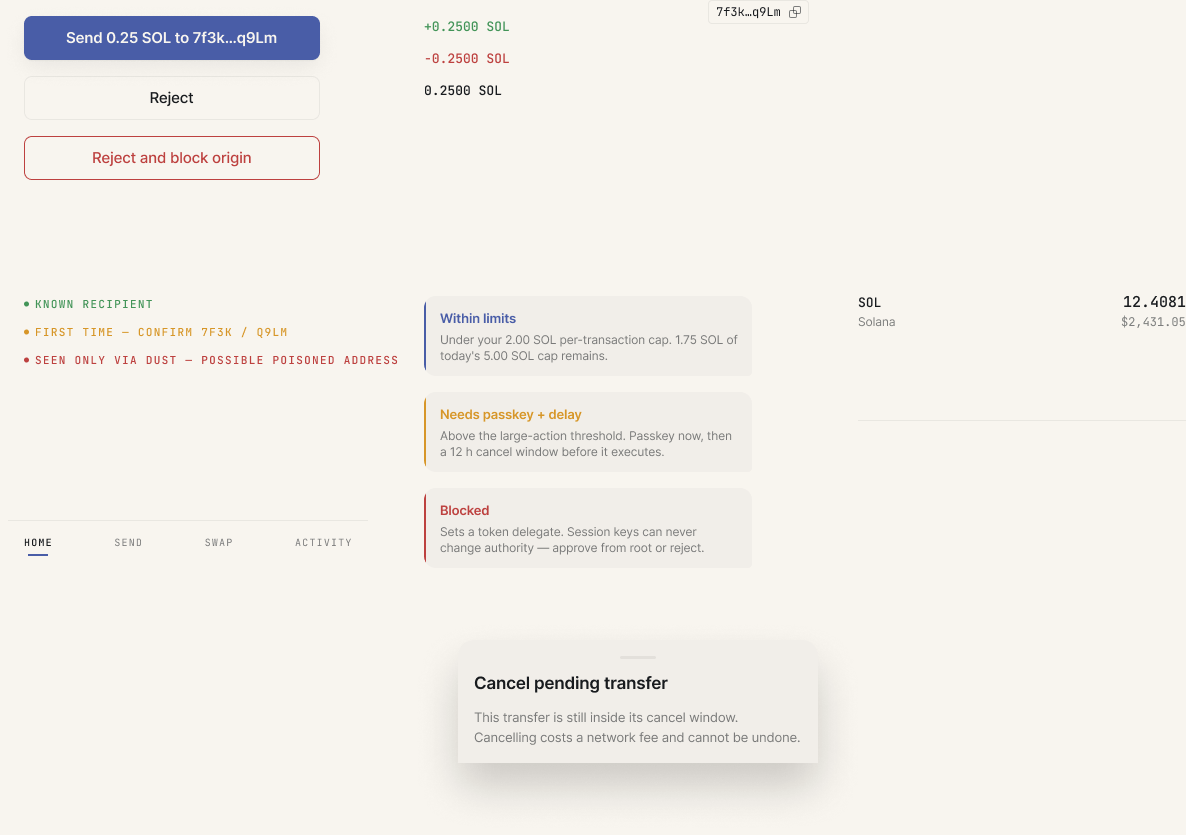
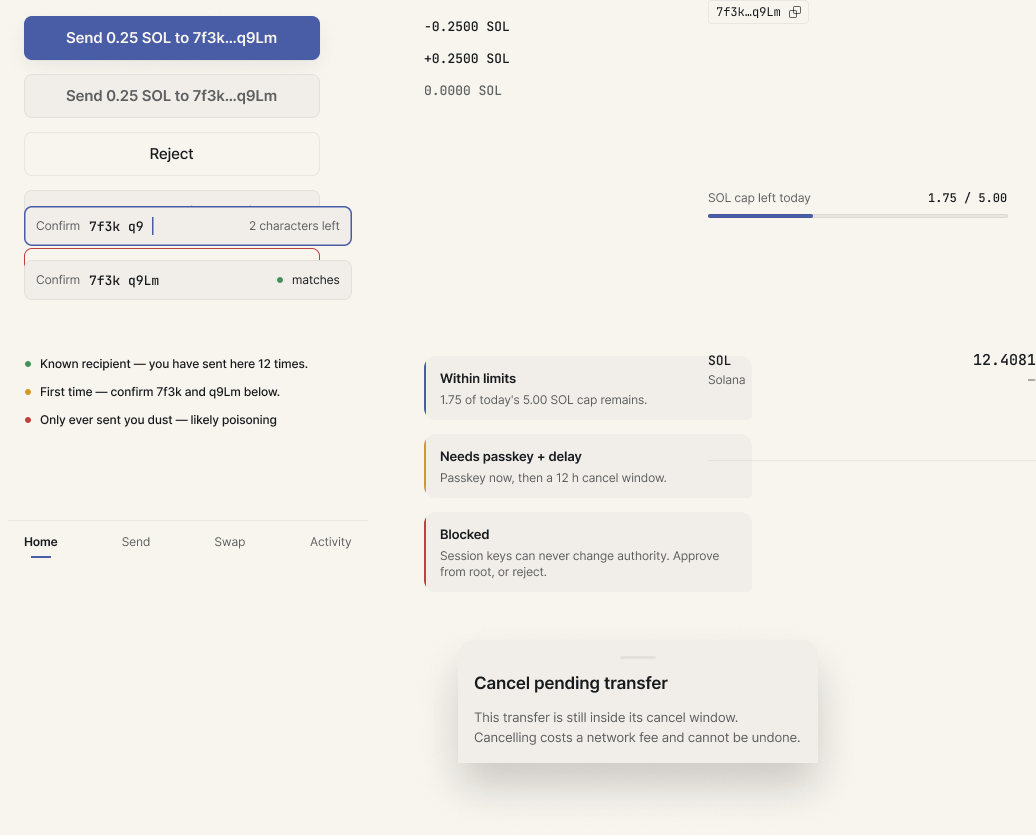
design: typed-confirmation gate, dust-only poison screen, AA-legible muted, constraint-parsing token tests

diff --git a/packages/ui-tokens/test/tokens.test.ts b/packages/ui-tokens/test/tokens.test.ts
@@ -1,12 +1,109 @@
 import { describe, it, expect } from "vitest";
 import { readFileSync } from "node:fs";
+
 const css = readFileSync(new URL("../tokens.css", import.meta.url), "utf8");
-const json = JSON.parse(readFileSync(new URL("../tokens.json", import.meta.url), "utf8"));
-describe("tokens", () => {
-  it("every json token exists in css :root", () => { for (const name of Object.keys(json)) expect(css.includes(`${name}:`)).toBe(true); });
-  it("dark block redefines only tokens defined in :root", () => {
-    const root = css.split("@media")[0]; const dark = css.split("@media")[1] ?? "";
-    for (const m of dark.matchAll(/(--w-[a-z0-9-]+):/g)) expect(root.includes(`${m[1]}:`)).toBe(true);
+const json: Record<string, string> = JSON.parse(
+  readFileSync(new URL("../tokens.json", import.meta.url), "utf8"),
+);
+
+/** Pull the declarations of one CSS block into a name -> value map. */
+function block(pattern: RegExp): Record<string, string> {
+  const m = css.match(pattern);
+  if (!m || m[1] === undefined) throw new Error(`block not found: ${pattern}`);
+  const out: Record<string, string> = {};
+  for (const decl of m[1].split(";")) {
+    const i = decl.indexOf(":");
+    if (i < 0) continue;
+    const name = decl.slice(0, i).trim();
+    if (!name.startsWith("--w-")) continue;
+    out[name] = decl.slice(i + 1).trim();
+  }
+  return out;
+}
+
+// `:root{` only — never `:root[data-theme…]` or `:root:not(…)`.
+const root = block(/:root\{([^}]*)\}/);
+const darkMedia = block(/:root:not\(\[data-theme="light"\]\)\{([^}]*)\}/);
+const darkAttr = block(/:root\[data-theme="dark"\]\{([^}]*)\}/);
+
+const REQUIRED = [
+  "--w-bg", "--w-surface", "--w-ink", "--w-muted", "--w-hairline",
+  "--w-accent", "--w-ok", "--w-warn", "--w-critical",
+  "--w-radius-card", "--w-font-ui", "--w-font-mono",
+  "--w-s-4", "--w-s-8", "--w-s-12", "--w-s-16", "--w-s-24", "--w-s-32", "--w-s-48",
+];
+
+/** oklch(L% C H[ / A]) -> {l, c, h}; throws if the value is not an oklch colour. */
+function oklch(value: string): { l: number; c: number; h: number } {
+  const m = value.match(/^oklch\(\s*([\d.]+)%\s+([\d.]+)\s+([\d.]+)/);
+  if (!m) throw new Error(`not an oklch colour: ${value}`);
+  return { l: Number(m[1]), c: Number(m[2]), h: Number(m[3]) };
+}
+
+describe("tokens.css :root", () => {
+  it("contains exactly the required token set", () => {
+    expect(Object.keys(root).sort()).toEqual([...REQUIRED].sort());
   });
-  it("exactly one accent hue family", () => expect((css.match(/--w-accent:/g) ?? []).length).toBe(3));
+});
+
+describe("tokens.json", () => {
+  it("has exactly the same names as :root", () => {
+    expect(Object.keys(json).sort()).toEqual(Object.keys(root).sort());
+  });
+
+  it("has the same values as :root", () => {
+    for (const name of REQUIRED) expect(json[name]).toBe(root[name]);
+  });
+});
+
+describe("dark blocks", () => {
+  it("only redefine names that exist in :root", () => {
+    for (const name of [...Object.keys(darkMedia), ...Object.keys(darkAttr)]) {
+      expect(Object.keys(root)).toContain(name);
+    }
+  });
+
+  it("are identical to each other", () => {
+    expect(darkAttr).toEqual(darkMedia);
+  });
+
+  it("are non-empty (a dark theme actually exists)", () => {
+    expect(Object.keys(darkMedia).length).toBeGreaterThan(0);
+  });
+});
+
+describe("palette constraints", () => {
+  it("accent is L=50% in light and L=62% in dark", () => {
+    expect(oklch(root["--w-accent"]!).l).toBe(50);
+    expect(oklch(darkMedia["--w-accent"]!).l).toBe(62);
+  });
+
+  it("accent keeps one hue family across modes", () => {
+    expect(oklch(darkMedia["--w-accent"]!).h).toBe(oklch(root["--w-accent"]!).h);
+  });
+
+  it("no non-semantic colour token carries chroma above 0.04", () => {
+    const accentHue = oklch(root["--w-accent"]!).h;
+    expect(accentHue).toBeGreaterThan(0);
+    for (const name of ["--w-bg", "--w-surface", "--w-ink", "--w-muted", "--w-hairline"]) {
+      for (const scope of [root, darkMedia]) {
+        const value = scope[name];
+        if (value === undefined) continue;
+        expect(oklch(value).c).toBeLessThanOrEqual(0.04);
+      }
+    }
+  });
+
+  it("only the accent exceeds chroma 0.10 outside the ok/warn/critical semantics", () => {
+    const loud = Object.entries(root)
+      .filter(([, v]) => /^oklch\(/.test(v))
+      .filter(([, v]) => oklch(v).c > 0.1)
+      .map(([k]) => k)
+      .sort();
+    expect(loud).toEqual(["--w-accent", "--w-critical", "--w-ok", "--w-warn"]);
+  });
+
+  it("card radius is the deliberate asymmetry", () => {
+    expect(root["--w-radius-card"]).toBe("12px 12px 4px 12px");
+  });
 });

diff --git a/packages/ui-tokens/tokens.css b/packages/ui-tokens/tokens.css
@@ -1,3 +1,3 @@
-:root{--w-bg:oklch(97% 0.008 85);--w-surface:oklch(95% 0.008 85);--w-ink:oklch(22% 0.008 250);--w-muted:oklch(22% 0.008 250 / .55);--w-hairline:oklch(0% 0 0 / .06);--w-accent:oklch(50% 0.12 270);--w-ok:oklch(60% 0.12 150);--w-warn:oklch(72% 0.14 75);--w-critical:oklch(55% 0.16 25);--w-radius-card:12px 12px 4px 12px;--w-font-ui:Inter,system-ui,sans-serif;--w-font-mono:"JetBrains Mono",ui-monospace,monospace;--w-s-4:4px;--w-s-8:8px;--w-s-12:12px;--w-s-16:16px;--w-s-24:24px;--w-s-32:32px;--w-s-48:48px}
-@media (prefers-color-scheme:dark){:root:not([data-theme="light"]){--w-bg:oklch(14% 0.02 260);--w-surface:oklch(18% 0.02 260);--w-ink:oklch(92% 0.006 90);--w-muted:oklch(92% 0.006 90 / .55);--w-hairline:oklch(100% 0 0 / .08);--w-accent:oklch(62% 0.12 270)}}
-:root[data-theme="dark"]{--w-bg:oklch(14% 0.02 260);--w-surface:oklch(18% 0.02 260);--w-ink:oklch(92% 0.006 90);--w-muted:oklch(92% 0.006 90 / .55);--w-hairline:oklch(100% 0 0 / .08);--w-accent:oklch(62% 0.12 270)}
+:root{--w-bg:oklch(97% 0.008 85);--w-surface:oklch(95% 0.008 85);--w-ink:oklch(22% 0.008 250);--w-muted:oklch(22% 0.008 250 / .68);--w-hairline:oklch(0% 0 0 / .06);--w-accent:oklch(50% 0.12 270);--w-ok:oklch(60% 0.12 150);--w-warn:oklch(72% 0.14 75);--w-critical:oklch(55% 0.16 25);--w-radius-card:12px 12px 4px 12px;--w-font-ui:Inter,system-ui,sans-serif;--w-font-mono:"JetBrains Mono",ui-monospace,monospace;--w-s-4:4px;--w-s-8:8px;--w-s-12:12px;--w-s-16:16px;--w-s-24:24px;--w-s-32:32px;--w-s-48:48px}
+@media (prefers-color-scheme:dark){:root:not([data-theme="light"]){--w-bg:oklch(14% 0.02 260);--w-surface:oklch(18% 0.02 260);--w-ink:oklch(92% 0.006 90);--w-muted:oklch(92% 0.006 90 / .68);--w-hairline:oklch(100% 0 0 / .08);--w-accent:oklch(62% 0.12 270)}}
+:root[data-theme="dark"]{--w-bg:oklch(14% 0.02 260);--w-surface:oklch(18% 0.02 260);--w-ink:oklch(92% 0.006 90);--w-muted:oklch(92% 0.006 90 / .68);--w-hairline:oklch(100% 0 0 / .08);--w-accent:oklch(62% 0.12 270)}

diff --git a/docs/design/figma.md b/docs/design/figma.md
@@ -1,11 +1,11 @@
 # Warden Wallet — design foundation (Figma)
 
 **File:** [Warden Wallet — design system](https://www.figma.com/design/GOBwNsRgT5I36H2oGjfSbi/Warden-Wallet-%E2%80%94-design-system)
-`fileKey = GOBwNsRgT5I36H2oGjfSbi` · owner `Dr. Inker` (`team::1660993652229402605`) · created 2026-08-18.
+`fileKey = GOBwNsRgT5I36H2oGjfSbi` · owner `Dr. Inker` (`team::1660993652229402605`) · created 2026-08-18, revised
+2026-08-18 (review round 1).
 
-Doctrine followed: `/opt/drinkerlabs/DESIGN.md` (ten principles, OKLCH-only colour, one accent, Inter + JetBrains Mono,
-hairlines, tabular numerals, three shadow tiers, one deliberate imperfection, sentence-case operator voice).
-Product context: `docs/superpowers/specs/2026-08-18-warden-wallet-design.md` §6 (intent view) and §9 (UI/brand).
+Doctrine followed: `/opt/drinkerlabs/DESIGN.md`. Product context: `docs/superpowers/specs/2026-08-18-warden-wallet-design.md`
+§6 (intent view) and §9 (UI/brand).
 
 Tokens are authored **here** and exported by hand to `packages/ui-tokens/`. Per repo `CLAUDE.md`: do not hand-edit
 `tokens.css` — change the Figma variable, then re-export both files together and update the table below.
@@ -16,36 +16,60 @@ Tokens are authored **here** and exported by hand to `packages/ui-tokens/`. Per 
 
 | Page | node id |
 |---|---|
-| Components | `4:3` |
-| Screens | `7:2` |
+| Components | `9:86` |
+| Screens | `10:2` |
 
 | Frame | node id | deep link |
 |---|---|---|
-| 06 — Sign request / intent (light) | `7:3` | `…/design/GOBwNsRgT5I36H2oGjfSbi?node-id=7-3` |
-| 06b — Sign request / blocked, authority change (light) | `7:42` | `…?node-id=7-42` |
-| 02 — Home (light) | `7:79` | `…?node-id=7-79` |
-| 06 — Sign request / intent · dark | `7:159` | `…?node-id=7-159` |
-| 02 — Home · dark | `7:190` | `…?node-id=7-190` |
-| 06b — Sign request / blocked · dark | `7:242` | `…?node-id=7-242` |
+| 06 — Sign request / intent | `10:3` | `…/design/GOBwNsRgT5I36H2oGjfSbi?node-id=10-3` |
+| 06a — Sign request / confirmation matched | `10:54` | `…?node-id=10-54` |
+| 06b — Sign request / blocked (authority change) | `10:106` | `…?node-id=10-106` |
+| 06c — Sign request / dust-only recipient (poisoning) | `10:145` | `…?node-id=10-145` |
+| 02 — Home | `10:190` | `…?node-id=10-190` |
+| 06 · dark | `10:271` | `…?node-id=10-271` |
+| 06b · dark | `10:307` | `…?node-id=10-307` |
+| 06c · dark | `10:340` | `…?node-id=10-340` |
+| 02 · dark | `10:374` | `…?node-id=10-374` |
 
-Popup frame size is 360 × 600 for every screen. The dark frames are clones with an explicit `color` collection mode
-override — same nodes, same variables, no duplicated colour values.
+Every frame is 360 × 600 and every frame's **content height is ≤ 600**, verified programmatically (596–600) — nothing
+is clipped. Dark frames are clones carrying an explicit `color`-collection mode override: same nodes, same variables.
 
-Screenshots in this folder: `06-sign-request.png`, `02-home.png`, `00-components.png` (component sheet).
+Screenshots in this folder: `06-sign-request.png`, `02-home.png`, `06c-dust-only.png`, `00-components.png`.
 
-## Components (page `4:3`)
+## Components (page `9:86`)
 
-| Component | node id | variants |
+| Component | node id | variants / notes |
 |---|---|---|
-| Button | `4:10` | `Variant=Primary` / `Secondary` / `Destructive` — 44 px, radius 8, ack 120 ms + emphasis easing (documented, not animated in Figma) |
-| Amount | `4:17` | `Sign=Positive` / `Negative` / `Neutral` — JetBrains Mono (inherently tabular), sign-coloured, U+2212 minus |
-| AddressChip | `4:18` | mono `first4…last4` + copy affordance |
-| TrustMark | `4:32` | `Trust=Known` / `FirstTime` / `DustOnly` — dot + mono all-caps, **not** a filled badge (doctrine §5.11) |
-| PolicyVerdict | `4:48` | `Verdict=Within` / `NeedsPasskey` / `Blocked` — 2 px semantic rail + title + reason |
-| BalanceRow | `4:49` | symbol / name / amount / fiat, hug height |
-| Divider | `4:56` | 1 px hairline |
-| NavBar | `4:57` | Home / Send / Swap / Activity, active = accent underline |
-| Sheet | `4:70` | bottom sheet, modal shadow tier |
+| Button | `9:203` | `Primary` · `PrimaryDisabled` · `Secondary` · `SecondaryDisabled` · `Destructive`. Disabled is a **different surface**, not dimmed text: `surface` fill + hairline stroke + `muted` label + no shadow. 44 px, radius 8 |
+| Amount | `9:210` | `Sign=Out` · `In` · `Muted`. Mono, tabular by construction, U+2212 minus. **No semantic colour** — see the colour rule below |
+| AddressChip | `9:211` | mono `first4…last4` + copy affordance |
+| TrustMark | `9:228` | `Known` · `FirstTime` · `DustOnly`. Semantic dot + **sentence-case Inter 12** label in `ink`. Not a filled badge |
+| PolicyVerdict | `9:244` | `Within` · `NeedsPasskey` · `Blocked`. 2 px semantic rail + `ink` title + `muted` detail |
+| ConfirmField | `9:260` | `State=Incomplete` (accent focus ring, caret, "2 characters left") · `State=Matched` (ok dot, "matches"). The typed first-4/last-4 gate required by spec §6 |
+| Meter | `9:261` | label left / value right, then a 4 px hairline-outlined track with an `accent` fill |
+| BalanceRow | `9:267` | symbol / name / amount / fiat |
+| Divider | `9:274` | 1 px hairline |
+| NavBar | `9:275` | Home / Send / Swap / Activity, sentence case, active = accent underline |
+| Sheet | `9:288` | bottom sheet, modal shadow tier |
+
+## The colour rule (added in review round 1)
+
+**Semantic hues (`ok` / `warn` / `critical`) are used for rails, dots and meter fills — never for text.**
+Two reasons, in order of weight:
+
+1. **Contrast.** Measured against `--w-surface` in light mode: `warn` = **2.19:1**, `ok` = **3.23:1**,
+   `critical` = 4.55:1. Against dark `surface`, `critical` = 3.58:1. Coloured status *text* therefore fails WCAG AA
+   (4.5:1) in the majority of the places it would appear. The rail carries the same information at full legibility.
+2. **Restraint.** Doctrine §2 uses a semantic hue "as dot, not wash". A wallet that paints every outgoing amount red
+   is a casino; a wallet that paints only *authority changes, blocked verdicts and poisoning* red is an instrument.
+
+Consequences:
+
+- Ordinary outgoing amounts (`−0.2500`) are **`ink`**; the sign is carried by the U+2212 glyph, not by hue.
+- `critical` appears in exactly three places: the authority-change rail (06b), the blocked-verdict rail (06b), and the
+  poison rail + dust dot + "Block and report" stroke (06c).
+- `warn` appears on the pending-timelock rail (02), the first-time-recipient dot (06) and the needs-passkey rail.
+- `ok` appears on the session-unlocked dot (02) and the confirmation-matched dot (06a).
 
 ## Variable collections
 
@@ -56,74 +80,109 @@ Screenshots in this folder: `06-sign-request.png`, `02-home.png`, `00-components
 | `bg` | `oklch(97% 0.008 85)` (bone) | `oklch(14% 0.02 260)` (midnight) | `--w-bg` |
 | `surface` | `oklch(95% 0.008 85)` | `oklch(18% 0.02 260)` | `--w-surface` |
 | `ink` | `oklch(22% 0.008 250)` | `oklch(92% 0.006 90)` | `--w-ink` |
-| `muted` | ink @ 55 % alpha | ink @ 55 % alpha | `--w-muted` |
+| `muted` | ink @ **68 %** alpha | ink @ **68 %** alpha | `--w-muted` |
 | `hairline` | `oklch(0% 0 0 / .06)` | `oklch(100% 0 0 / .08)` | `--w-hairline` |
 | `accent` | `oklch(50% 0.12 270)` | `oklch(62% 0.12 270)` | `--w-accent` |
 | `ok` | `oklch(60% 0.12 150)` | same | `--w-ok` |
 | `warn` | `oklch(72% 0.14 75)` | same | `--w-warn` |
 | `critical` | `oklch(55% 0.16 25)` | same | `--w-critical` |
 
-Only `accent` carries chroma > 0.10 as *the* brand accent; `ok`/`warn`/`critical` are semantic status hues that the
-spec (§9) separates from the accent, and they never appear as nav or surface chrome.
+`muted` was raised from 55 % to **68 %** alpha in review round 1. Measured contrast:
 
-Figma variables are sRGB, so the OKLCH values above were converted once and the sRGB result is what Figma stores:
+| | on `bg` | on `surface` |
+|---|---|---|
+| light (`#5F6161` / `#5D5F5F` flattened) | 5.73:1 | 5.58:1 |
+| dark (`#9E9E9E` / `#A0A1A1` flattened) | 7.45:1 | 7.26:1 |
+
+At 55 % it measured 3.78:1 / 3.72:1 in light — below AA. 68 % clears AA with margin while still reading a full step
+below `ink`.
+
+Only `accent` is a brand chroma above 0.10; `ok`/`warn`/`critical` are semantic status hues the spec (§9) separates
+from the accent, and per the rule above they never appear as chrome or as text.
+
+Figma variables are sRGB, so the OKLCH values were converted once and the sRGB result is what Figma stores:
 bg `#F8F5EF` / `#050911`, surface `#F1EEE9` / `#0C121A`, ink `#181B1E` / `#E6E4E0`, accent `#495DA7` / `#6A81CE`,
-ok `#439458`, warn `#D79628`, critical `#BD413F`. **OKLCH in `tokens.css` is the source of truth**; the hex is a
-lossy render for tooling that cannot do OKLCH.
+ok `#439458`, warn `#D79628`, critical `#BD413F`. **OKLCH in `tokens.css` is the source of truth**; the hex is a lossy
+render for tooling that cannot do OKLCH.
 
 ### `type` (`VariableCollectionId:1:12`)
 
-`font-ui` = `Inter` · `font-mono` = `JetBrains Mono`
-UI sizes 13 / 15 / 17 / 22 / 28 with line-heights 16 / 20 / 24 / 28 / 36 (all on the 4 px baseline grid).
+`font-ui` = `Inter` · `font-mono` = `JetBrains Mono`.
+UI sizes 13 / 15 / 17 / 22 / 28 with line-heights 16 / 20 / 24 / 28 / 36 (4 px baseline grid).
 Mono sizes 12 / 13 with line-heights 16 / 20. Inter is tracked at −1.1 %; mono is untracked.
-All-caps chapter marks are mono 10 px at +12 % tracking, `muted`.
+
+**Mono is reserved for amounts, addresses, hashes, tickers and timestamps.** Operational prose — fee labels, recipient
+warnings, policy detail, meter labels, nav labels — is sentence-case Inter at 12–13 px. The only all-caps mono left is
+the numbered chapter mark (`WHAT CHANGES`, `RECIPIENT`, `BALANCES`), at 11 px / +12 % tracking, per doctrine §3.6.
 
 ### `space` (`VariableCollectionId:1:29`)
 
-`s-4 · s-8 · s-12 · s-16 · s-24 · s-32 · s-48` → `--w-s-*`. Rungs above 48 are deliberately skipped for a 360 px popup.
+`s-4 · s-8 · s-12 · s-16 · s-24 · s-32 · s-48` → `--w-s-*`. Rungs above 48 are skipped for a 360 px popup.
 
 ### `radius` (`VariableCollectionId:1:37`)
 
 `card-tl` = 12 · `card-tr` = 12 · `card-br` = **4** · `card-bl` = 12 — i.e. `12px 12px 4px 12px`, **the one deliberate
-imperfection**; every card in both screens carries it, and it exports as the single `--w-radius-card` token.
-Also `pill` = 999 · `chip` = 4 · `control` = 8 (buttons, Cancel).
+imperfection**; every card in every screen carries it, and it exports as the single `--w-radius-card` token.
+Also `pill` = 999 · `chip` = 4 · `control` = 8 (buttons, ConfirmField, Cancel).
 
 ### Motion (documented here, not animated in Figma)
 
 `--ease-out: cubic-bezier(.16,1,.3,1)` · `--ease-emph: cubic-bezier(.2,0,0,1)` ·
-`--dur-ack: 120ms` (button press / focus) · `--dur-reveal: 240ms` (sheet, verdict expansion).
+`--dur-ack: 120ms` (button press, ConfirmField character echo) · `--dur-reveal: 240ms` (sheet, verdict expansion).
 
 ### Shadow tiers
 
-surface = none · raised = `0 1px 2px /5 %` + `0 8px 24px /6 %` (the popup itself, primary button) ·
-modal = `0 24px 48px /18 %` (Sheet only). Three tiers, no more.
+surface = none · raised = `0 1px 2px /5 %` + `0 8px 24px /6 %` (the popup, the enabled primary button) ·
+modal = `0 24px 48px /18 %` (Sheet only). Three tiers, no more. `PrimaryDisabled` deliberately has **no** shadow — the
+elevation itself is part of the enabled/disabled signal.
 
 ---
 
 ## Screen notes
 
-**06 — sign request / intent** is the product. Reading order top → bottom is origin → what changes → who receives it →
-what the policy will do → the button that says exactly what it does:
+### 06 — sign request / intent
 
-- **Origin header** — favicon mark, host, connection age, and the signing key, so the user knows *which* key is about to
-  sign. Hairline bottom edge, no chrome.
-- **What changes** — per-token balance diff from simulation, mono and sign-coloured, with the fiat value and, under a
-  hairline, the fee and the resulting balance. One number is the hero; everything else is 11 px muted mono.
-- **Recipient** — the full base58 address in mono plus a `TrustMark`. First-time and dust-only are the two states that
-  matter; dust-only is the poisoned-address warning and is `critical`.
-- **Policy verdict** — the on-chain answer, not a warning the user can click through: *within limits* /
-  *needs passkey + delay* / *blocked (why)*.
-- **Actions** — primary reads "Send 0.25 SOL to 7f3k…q9Lm"; secondary is "Reject". On the blocked variant the primary
-  slot is destructive ("Reject and block origin") and the only other action is "Show raw instructions" — there is no
-  path to approve a blocked action from this screen.
+Reading order is origin → what changes → who receives it → what the policy will do → the gate → the button.
 
-**02 — home** shows the account's safety state before it shows its money:
+- **Origin header** — mark, host, connection age, and the key that will sign, so the user knows *which* key is acting.
+- **What changes** — per-token diff from simulation in `ink` mono, with fiat, network fee and resulting balance under a
+  hairline. One number is the hero; everything else is 12 px.
+- **Recipient** — full base58 address in mono, plus a `TrustMark`.
+- **Policy verdict** — the on-chain answer, not a dismissible warning: within limits / needs passkey + delay / blocked.
+- **Typed confirmation (spec §6)** — a `ConfirmField` sits directly above the primary action. Until the typed value
+  matches the recipient's first four and last four characters, the primary is `PrimaryDisabled`: a flat `surface`
+  rectangle with a hairline and a `muted` label and no elevation — visibly not a button yet. `06a` (`10:54`) is the same
+  frame with `State=Matched` and `Variant=Primary`, showing the gate released.
+- **Actions** — primary reads "Send 0.25 SOL to 7f3k…q9Lm"; secondary is "Reject".
 
-- Total held is the SOL number the RPC actually returned; the fiat line is `—` with `PRICE FEED UNAVAILABLE`, and the
-  per-row fiat is `—` to match. This is the doctrine's "live state as ornament / never fake it" rule made literal — the
-  screen is designed around the failure case so it cannot lie.
-- Session card: unlocked + minutes left, then remaining caps per mint with a hairline meter.
-- Pending: the timelocked transfer with a mono countdown and an in-place Cancel — the cancel window is the product
+### 06b — blocked (authority change)
+
+Authority changes lead the screen, above the balance diff, because the balance diff is *zero* — the whole point is that
+simulation shows no loss today. Critical rail, `ink` title, blocked verdict, and no approve path at all: the actions are
+"Reject and block origin" and "Show raw instructions".
+
+### 06c — dust-only recipient (address poisoning)
+
+The poison case gets its own blocking treatment rather than a trust label alone:
+
+- A `critical`-railed banner leads: "This address only ever sent you dust", with how it entered the history and why it
+  looks like the address the user actually uses.
+- The recipient card shows the poisoned address, the `DustOnly` `TrustMark`, and the **address the user actually sends
+  to** for comparison — the single most useful thing the wallet can show here.
+- The primary action is inverted: destructive **"Block and report this address"**. The escape hatch,
+  "I understand the risk, continue", is a `SecondaryDisabled` and stays disabled until the same `ConfirmField` matches.
+  You cannot proceed through a poisoning warning by muscle memory.
+
+### 02 — home
+
+Shows the account's safety state before it shows its money.
+
+- Total held is the SOL figure the RPC actually returned; the fiat line reads `— USD unavailable — no price feed` and
+  every per-row fiat is `—`. The screen is designed around the failure case so it cannot lie (doctrine §3.7).
+- Session card: unlocked + minutes left, then per-mint remaining caps as **`Meter`** instances — label above, value
+  right-aligned, and a 4 px hairline-outlined track with an accent fill underneath. (In round 0 these were 2 px bars
+  sitting directly under their labels and read as text underlines.)
+- Pending: the timelocked transfer with a mono countdown and an in-place Cancel. The cancel window is the product
   promise, so it is on the first screen, not buried in Activity.
 
 ---
@@ -132,18 +191,21 @@ what the policy will do → the button that says exactly what it does:
 
 Screens **01** onboarding (incl. the one Tiempos-italic hero phrase §9), **03** receive, **04** send, **05** swap,
 **07** connect, **08** policy, **09** sessions & devices, **10** guardians & recovery, **11** settings/trust.
-Also missing: full-page (expanded tab) variants, empty/error/loading states beyond the `—` case, focus and hover
-states, the top-20 dApp-compat surface (§12.4), and a `Sheet` used in situ.
+Also missing: full-page (expanded tab) variants, hover/focus states, loading states beyond the `—` case, the top-20
+dApp-compat surface (§12.4), and a `Sheet` used in situ.
 
 ## Process note
 
 The Figma MCP asks that `/figma-use` be loaded before `use_figma`. That skill is **not installed** in this environment
-(the `Skill` tool returns `Unknown skill: figma-use`) and the fallback resource `skill://figma/figma-use/SKILL.md`
-could not be read (no MCP resource-reading tool is exposed to this agent). The work was done following the guidance
-embedded in the tool descriptions instead. Two gotchas cost a rebuild each and are worth recording:
+(`Skill` returns `Unknown skill: figma-use`) and the fallback resource `skill://figma/figma-use/SKILL.md` could not be
+read (no MCP resource-reading tool is exposed to this agent). The work followed the guidance embedded in the tool
+descriptions instead. Gotchas worth recording:
 
 1. `PageNode` has `backgrounds`, not `fills`.
 2. `resize()` on an auto-layout frame flips **both** sizing modes to `FIXED`. For "fixed width, hug height" you must
    re-set the modes *after* resizing — `VERTICAL` → `counterAxisSizingMode = FIXED; primaryAxisSizingMode = AUTO`;
    `HORIZONTAL` → the reverse. Getting this wrong collapses every card to the placeholder height silently.
 3. `counterAxisAlignItems` has no `STRETCH`; use `layoutSizingVertical = "FILL"` on the child instead.
+4. A frame fixed at 600 px with a `layoutGrow: 1` body will happily overflow and clip without any error. To check for
+   overflow, set the frame back to `AUTO` (and the body to `layoutGrow: 0`), read `height`, then restore.
+5. `get_screenshot` only downscales — `maxDimension` above the node's natural size returns 1×.
